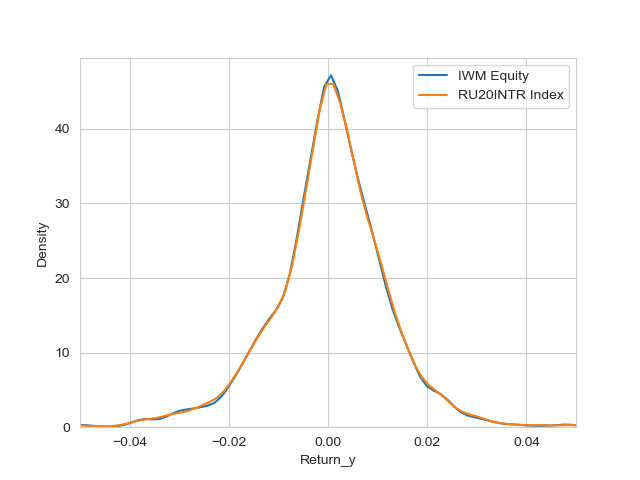
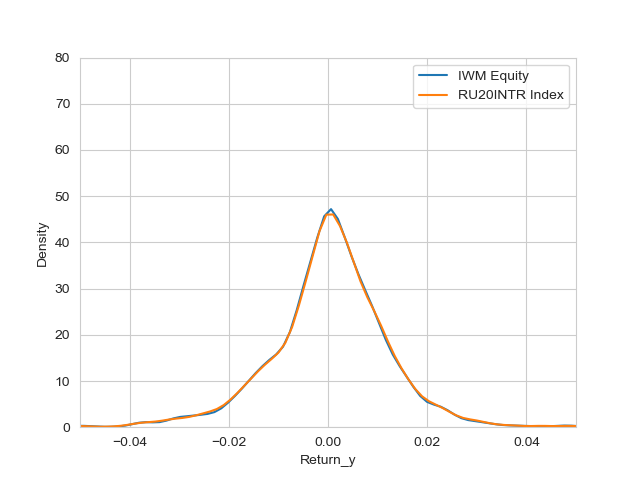
Graphs done for now

diff --git a/functions/Plots.py b/functions/Plots.py
@@ -11,24 +11,28 @@ s = os.getcwd()+"/Graphs/"
 def Price(pairs, ETFs, UIs, paired=False):
     for i, pair in enumerate(pairs):
         
-        plt.figure()
-        plt.plot(pair["Close_x"], label=ETFs[i])
-        plt.legend()
-        
-        if not paired: 
+        if paired:
+            plt.figure()
+            plt.plot(pair["Close_x"], label=ETFs[i])
+            plt.legend()
             plt.savefig(s+"1_"+str(i)+"_PricePlot_"+ETFs[i])
             plt.show();
             plt.figure()
-        
-        plt.plot(pair["Close_y"], label=UIs[i])
-        plt.legend()
-        if not paired:
+            plt.plot(pair["Close_y"], label=UIs[i])
+            plt.legend()
             plt.savefig(s+"1_"+str(i)+"_PricePlot_"+UIs[i])
-        else:
-            plt.savefig(s+"11_"+str(i)+"_PricePlot_"+ETFs[i]+"_"+UIs[i])            
-        plt.show();
+            plt.show();
         
-
+        else: 
+            fig, axs = plt.subplots(1,2, figsize=(8,4))
+            axs[0].plot(pair["Close_x"], label=ETFs[i])
+            axs[1].plot(pair["Close_y"], label=UIs[i], color="C1")
+            fig.legend([ETFs[i], UIs[i]])
+            plt.savefig(s+"1_"+str(i)+"_Price_"+ETFs[i]+"_"+UIs[i])
+            fig.show();
+        
+        
+        
 
 
 # Plot indexed prices
@@ -76,7 +80,8 @@ def Returns(pairs, ETFs, UIs, paired=False):
 
 
 # Plot returns histogram, kernel density
-def ReturnsDist(pairs, ETFs, UIs, density=True, normed=True, bins=15, paired=True, hist=True, xlim=False):
+def ReturnsDist(pairs, ETFs, UIs, density=True, normed=True, bins=15, 
+                paired=True, hist=True, xlim=False, ylim=False):
     for i, pair in enumerate(pairs):
        
         plt.figure()
@@ -86,12 +91,14 @@ def ReturnsDist(pairs, ETFs, UIs, density=True, normed=True, bins=15, paired=Tru
         plt.ylabel("Density")
         
         if xlim: plt.xlim(xlim)
+        if ylim: plt.ylim(ylim)
         
         if not paired: 
             plt.show();
             plt.figure()
             plt.ylabel("Density")
             if xlim: plt.xlim(xlim)
+            if ylim: plt.ylim(ylim)
             
         sns.distplot(pair["Return_y"], label=UIs[i],
                      hist=hist, kde=density, norm_hist=normed, bins=bins)

diff --git a/20200318 MainScript.py b/20200318 MainScript.py
@@ -8,8 +8,8 @@ sns.set_style("whitegrid")
 from functions.Bloomberg import BloombergTickers, GetDataBloomberg
 from functions.YFinance import YFTickers, GetDataYF
 from functions.DataWork import GetPairs
-from functions.Econometrics import Regress1
 from functions.Descriptives import PairsDescriptiveInfo
+import functions.Econometrics as econometrics
 import functions.Plots as plots
 
 
@@ -29,18 +29,19 @@ if importData:
 
 
 
-
+## PLOTS
 # PairsDescriptiveInfo(pairs, ETFs, UIs, ProfileReport=True)
-plots.Price(pairs, ETFs, UIs)
-plots.PriceIndex(pairs, ETFs, UIs, paired=True)
-plots.Returns(pairs, ETFs, UIs)
-plots.ReturnsDist(pairs, ETFs, UIs, hist=False, xlim=(-0.05, 0.05))
-plots.DiffGap(pairs, ETFs, UIs)
-plots.Joint(pairs, ETFs, UIs)
+# plots.Price(pairs, ETFs, UIs)
+# plots.PriceIndex(pairs, ETFs, UIs, paired=True)
+# plots.Returns(pairs, ETFs, UIs)
+# plots.ReturnsDist(pairs, ETFs, UIs, hist=False, xlim=(-0.05, 0.05), ylim=(0, 80))
+# plots.DiffGap(pairs, ETFs, UIs)
+# plots.Joint(pairs, ETFs, UIs)
+
 
 
 # Econometrics
-reg1, resids1 = Regress1(pairs, ETFs, UIs, plot=False)
+reg1, resids1 = econometrics.Regress1(pairs, ETFs, UIs, plot=False)
 
 
 
